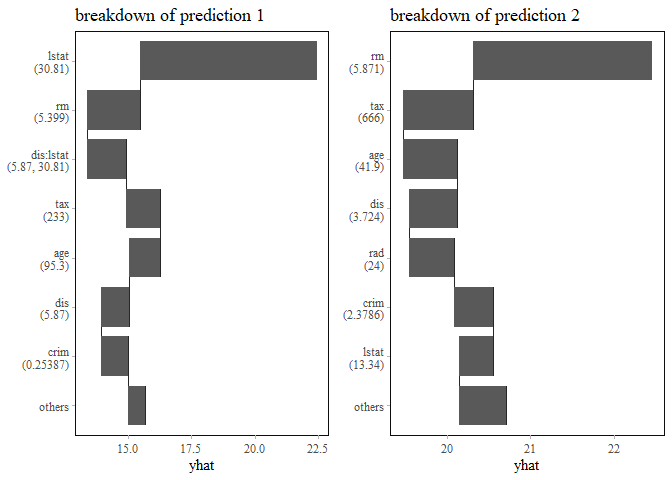
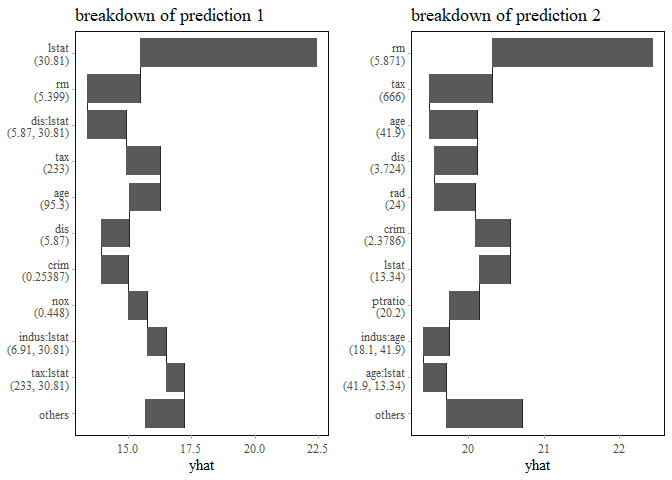
version 0.4.7.. - fix _pkgdown.yml

diff --git a/README.md b/README.md
@@ -120,8 +120,7 @@ and interaction effects.
 ``` r
 # visualize the MID importance of the component functions
 imp <- mid.importance(mid)
-grid.arrange(
-  nrow = 1L,
+grid.arrange(nrow = 1L,
   ggmid(imp, max.bars = 16L, type = "dotchart", size = 2) +
     ggtitle("importance of variable effects"),
   ggmid(imp, max.bars = 16L, type = "heatmap") +
@@ -140,11 +139,10 @@ value into variable effects.
 # visualize the MID breakdown of the model predictions
 bd1 <- mid.breakdown(mid, data = train[1L, ])
 bd2 <- mid.breakdown(mid, data = train[2L, ])
-grid.arrange(
-  nrow = 1L,
-  ggmid(bd1, max.bars = 8L, type = "waterfall") +
+grid.arrange(nrow = 1L,
+  ggmid(bd1, max.bars = 11L, type = "waterfall") +
     ggtitle("breakdown of prediction 1"),
-  ggmid(bd2, max.bars = 8L, type = "waterfall") +
+  ggmid(bd2, max.bars = 11L, type = "waterfall") +
     ggtitle("breakdown of prediction 2")
 )
 ```
